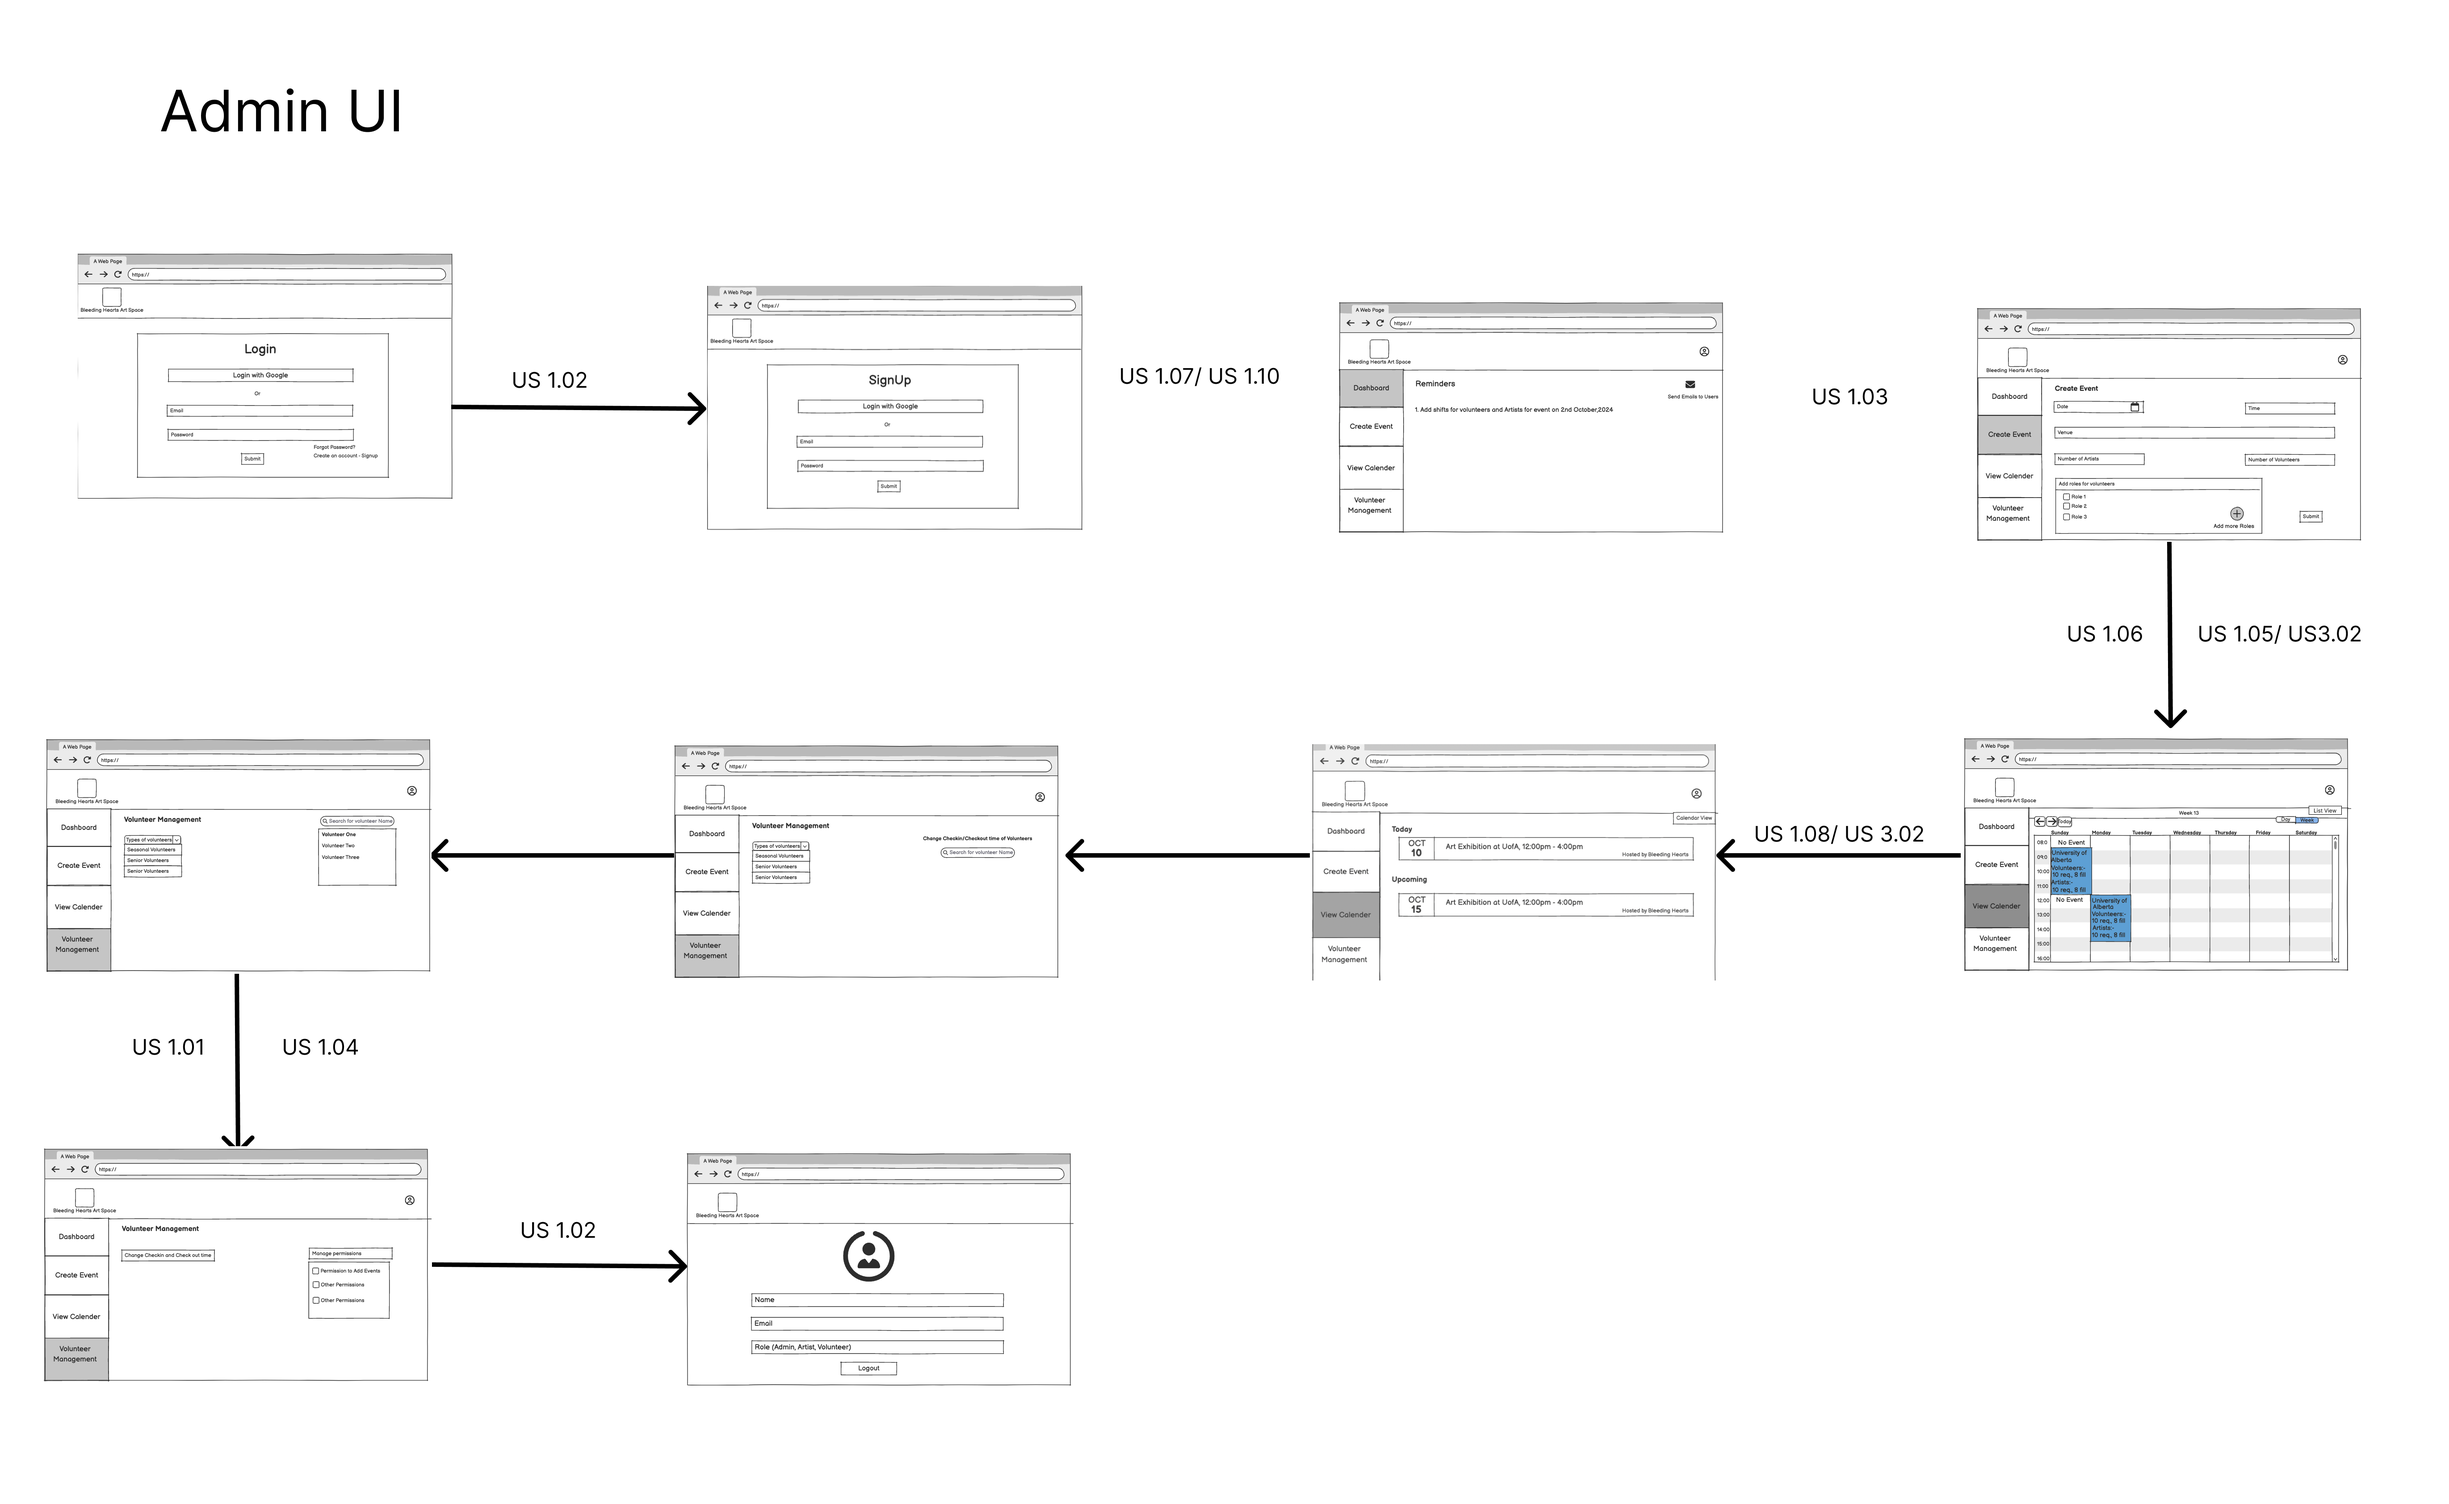
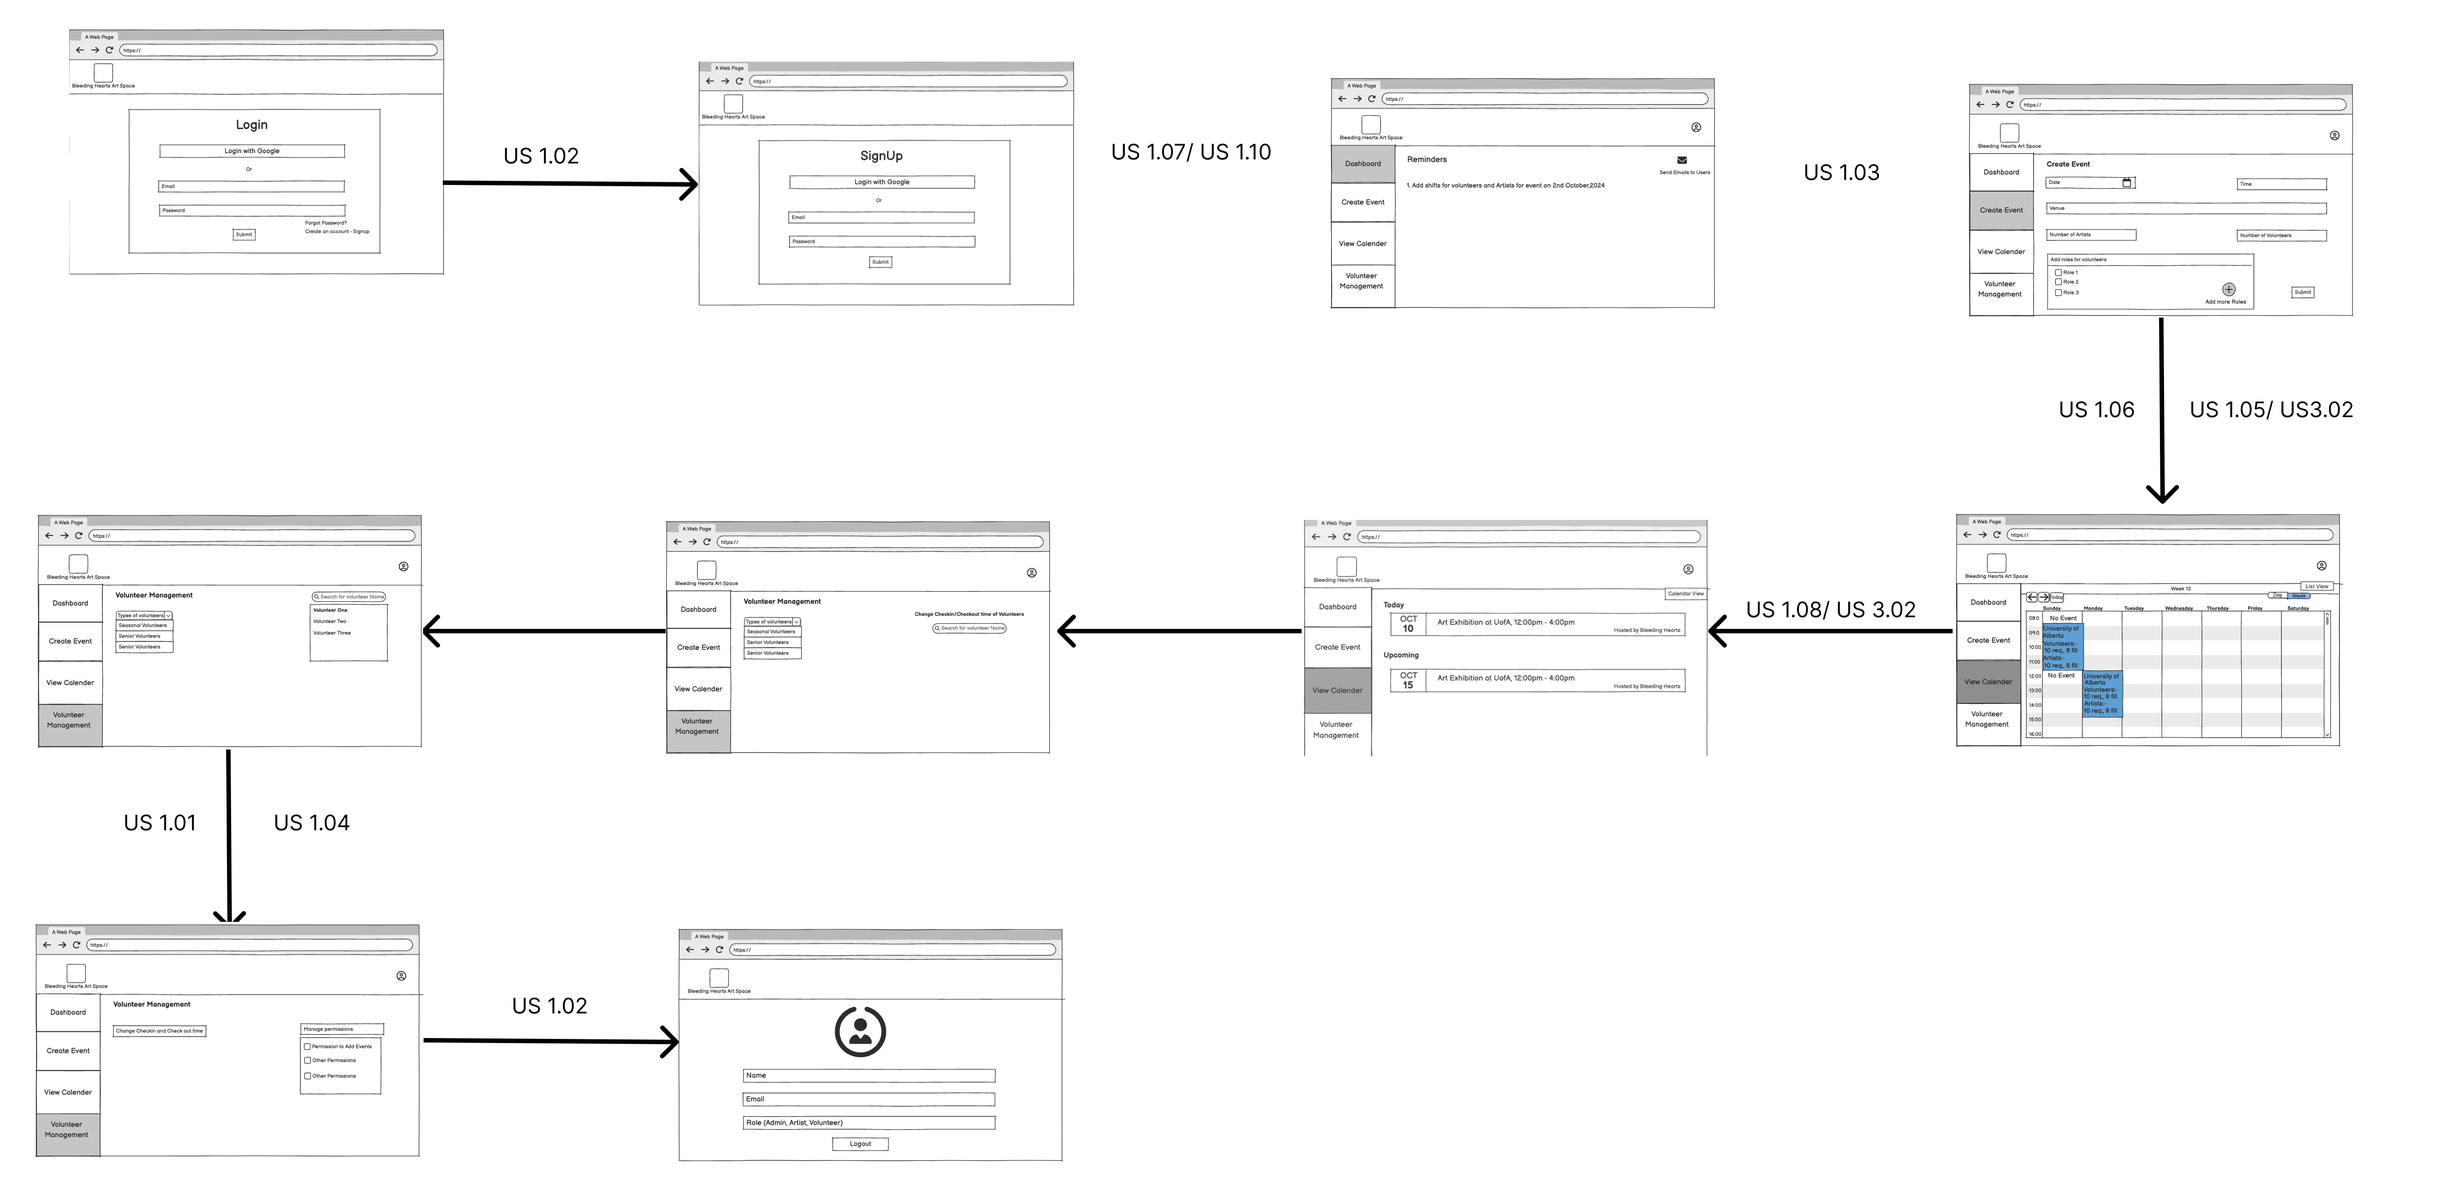
fix: move title from ui images into md text

diff --git a/docs/software-design.md b/docs/software-design.md
@@ -27,8 +27,11 @@ Multiple sequence diagrams depicting the most important scenarios.
 
 This is the overall look and feel of the web app.
 
+### Admin UI
 ![Admin UI](images/admin-ui.png)
 
+### Volunteer UI
 ![Volunteer UI](images/volunteer-ui.png)
 
+### Artist UI
 ![Artist UI](images/artist-ui.png)
